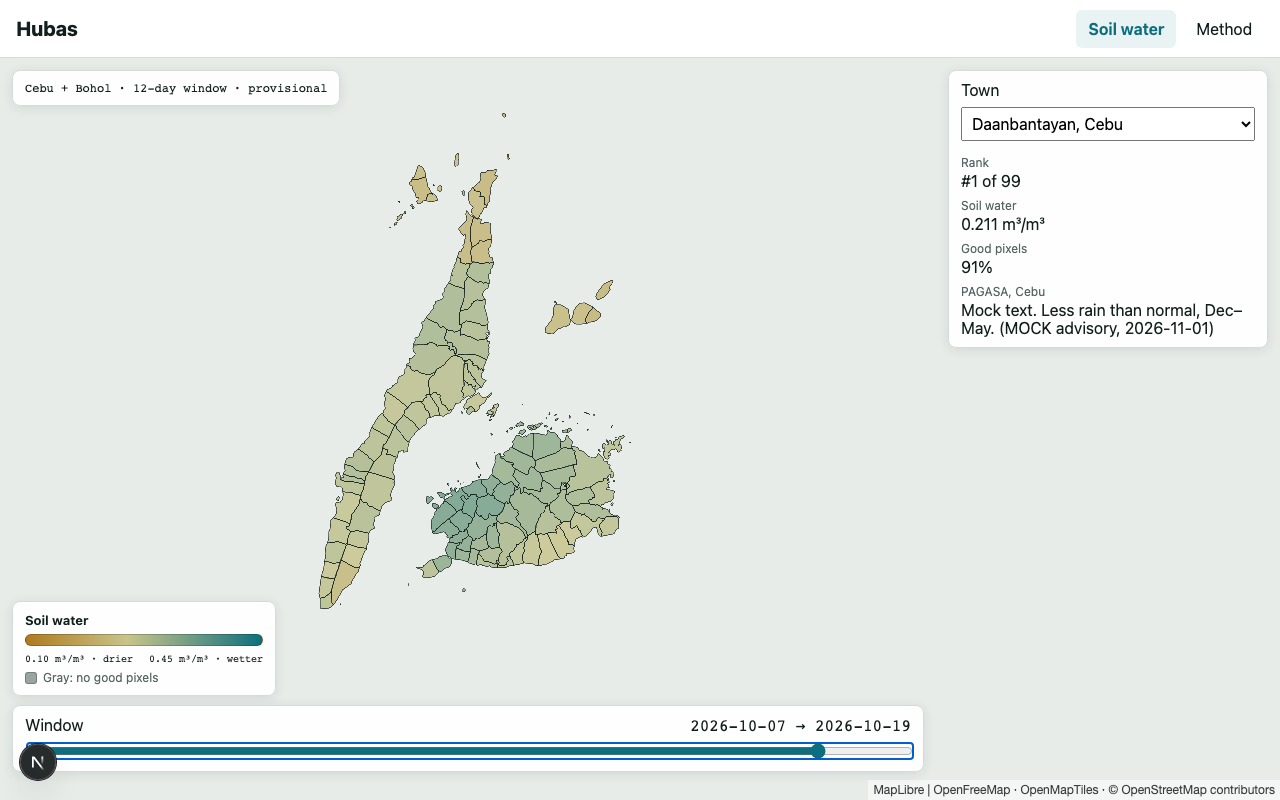
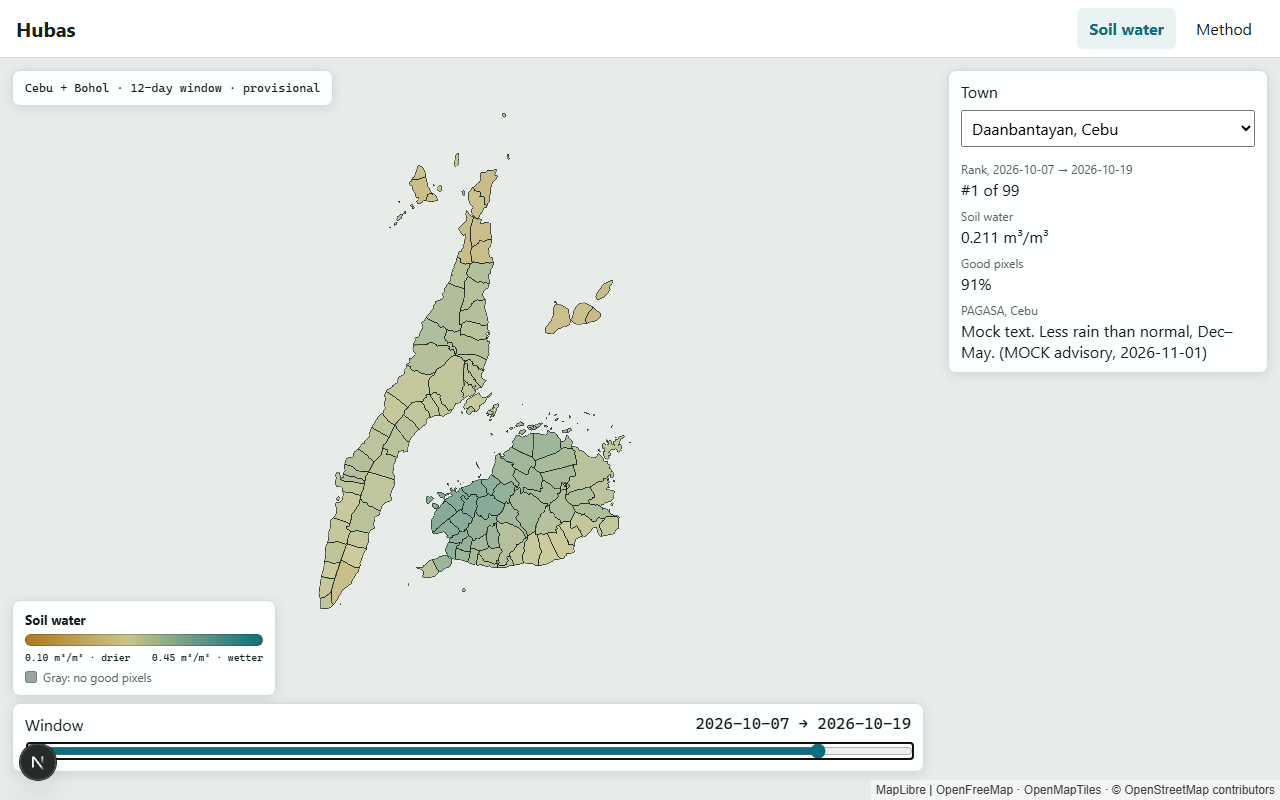
test: check the window label of the rank in the town panel [sc-120]

diff --git a/app/e2e/soil-water-data.spec.ts b/app/e2e/soil-water-data.spec.ts
@@ -61,6 +61,7 @@ test("the map and the panel show a town with data and a town with no data in a w
 
 test("the rank is a full order of the towns with data, and the panel shows it", async ({ page, request }) => {
   const lgus: Lgu[] = await (await request.get("/data/lgus.json")).json();
+  const manifest: Manifest = await (await request.get("/data/manifest.json")).json();
   const ranked = lgus.filter((l) => l.rank !== null);
   expect(ranked.length).toBeGreaterThan(0);
   expect(ranked.map((l) => l.rank!.position).sort((a, b) => a - b)).toEqual(ranked.map((_, i) => i + 1));
@@ -87,6 +88,8 @@ test("the rank is a full order of the towns with data, and the panel shows it", 
   await expect(page.getByTestId("rank")).toHaveText("Not ranked");
   await page.getByLabel("Town").selectOption(first.psgc);
   await expect(page.getByTestId("rank")).toHaveText(`#1 of ${ranked.length}`);
+  const rankWin = manifest.windows[manifest.rankWindow!];
+  await expect(page.locator(".panel dt").first()).toHaveText(`Rank, ${rankWin.start} → ${rankWin.end}`);
   await page.waitForFunction(() => window.hubasMap!.loaded());
   await page.screenshot({ path: path.resolve(process.cwd(), "..", "docs", "proof", "sc-120-rank-first-town.png"), fullPage: true });
 });
